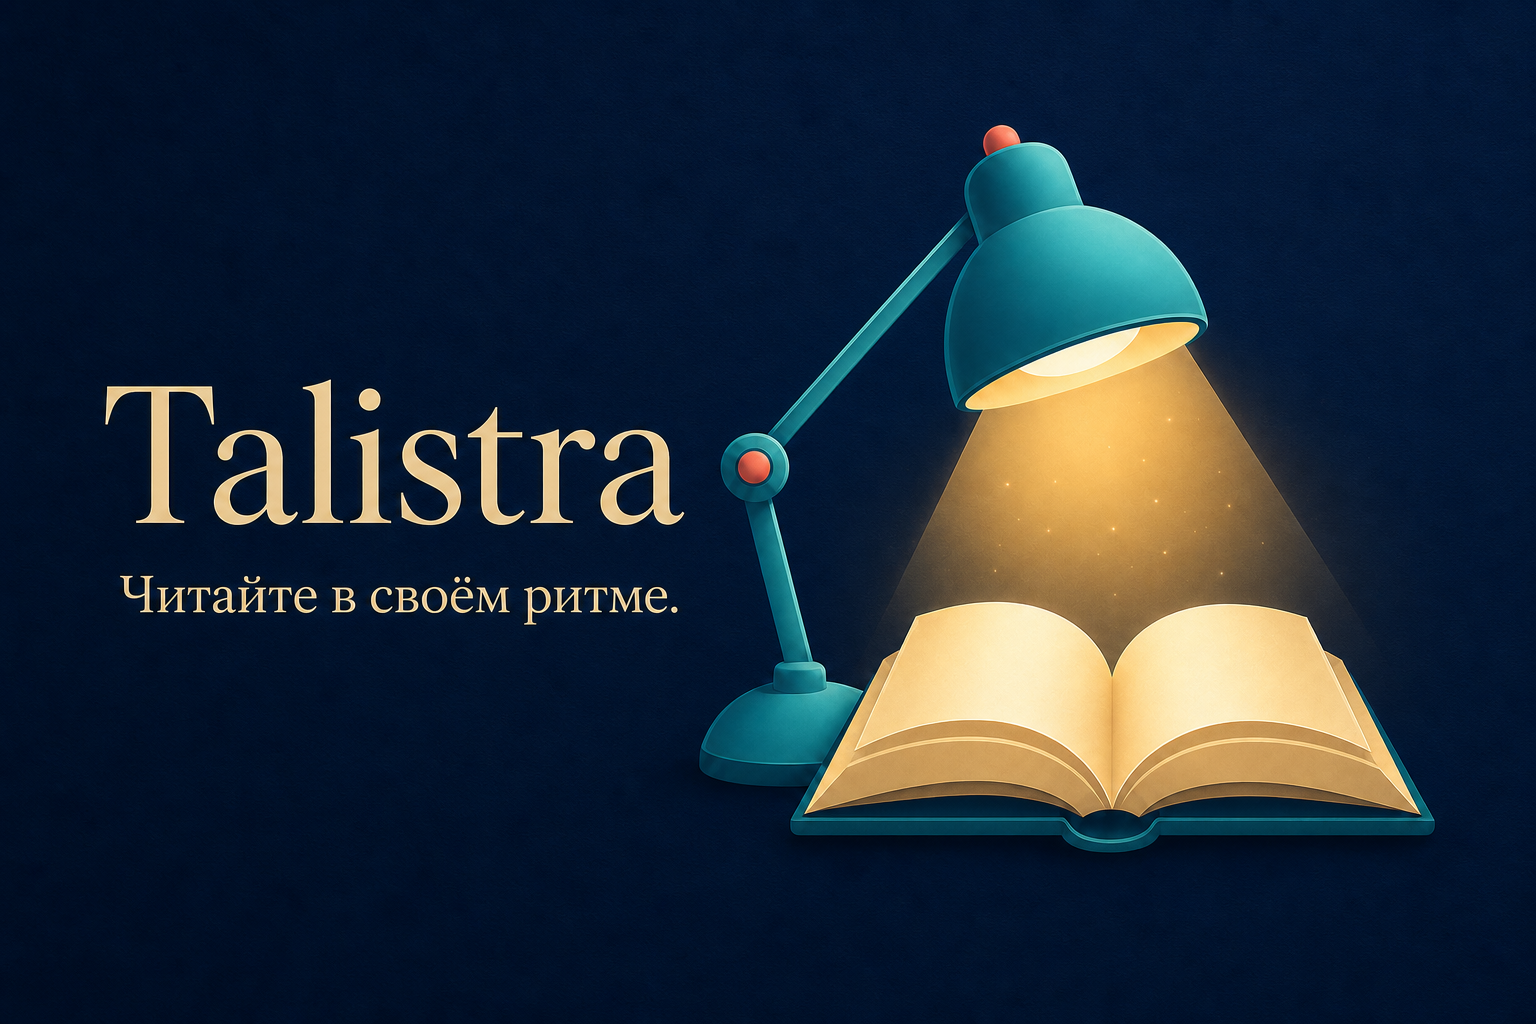
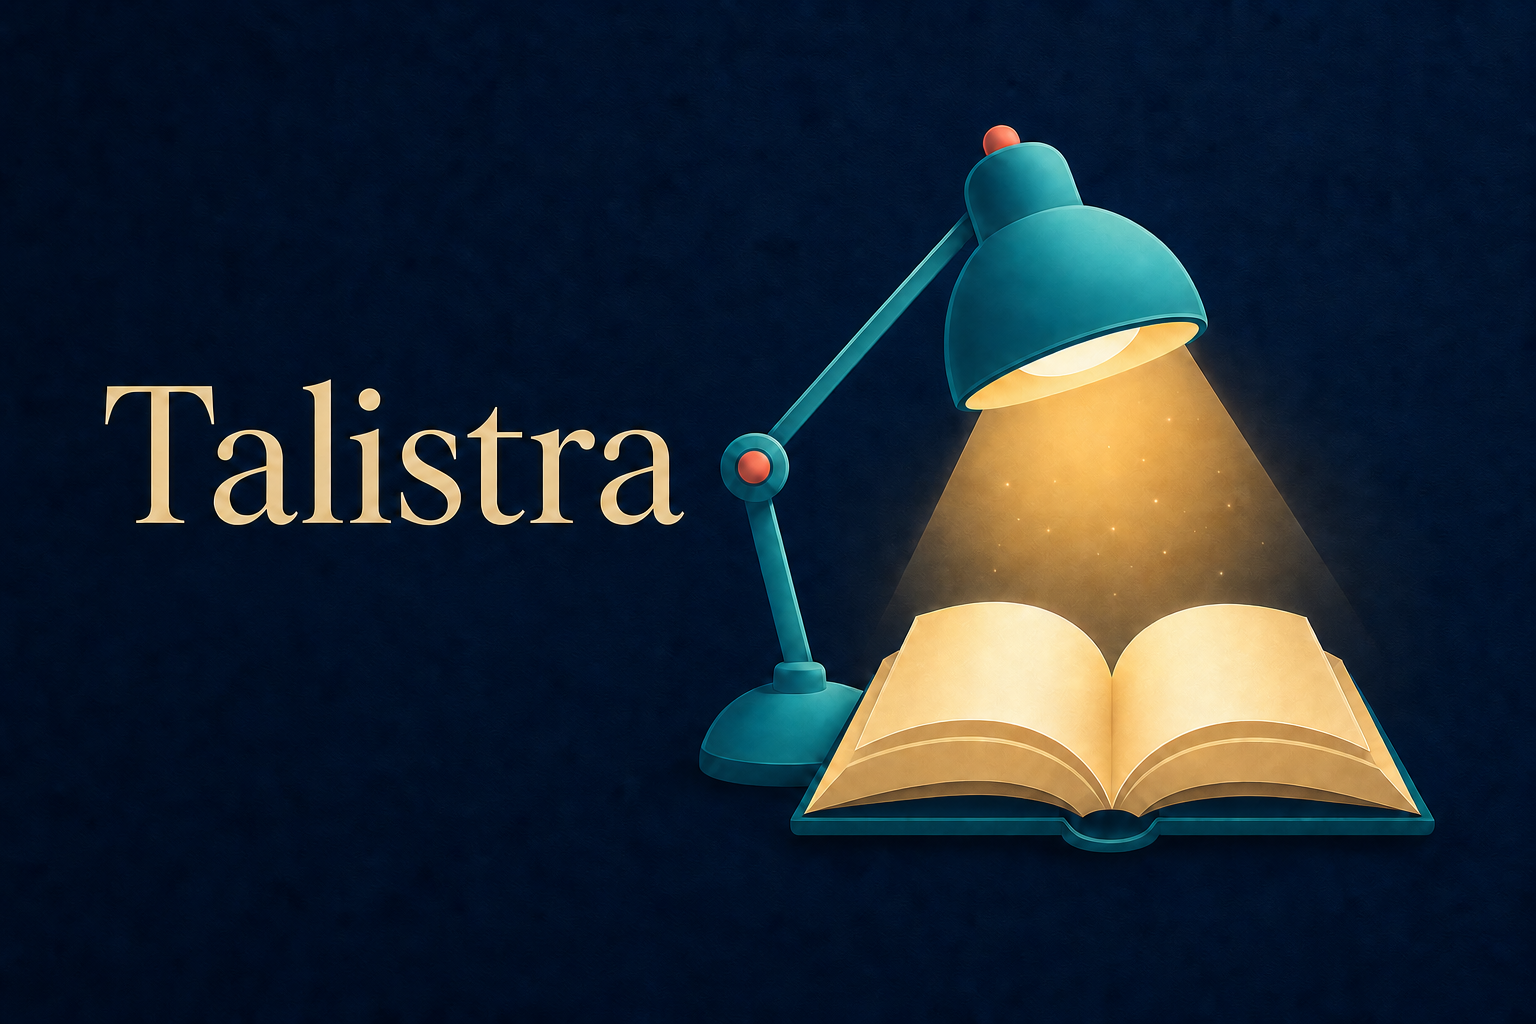
Refine website copy and HTTP handling

Changed region(s): [[0.0625, 0.5625, 0.4375, 0.625]]

diff --git a/website/public/index.html b/website/public/index.html
@@ -4,9 +4,9 @@
     <meta charset="utf-8">
     <meta name="viewport" content="width=device-width, initial-scale=1">
     <meta name="theme-color" content="#073b3a">
-    <meta name="description" content="Talistra — спокойная читалка PDF, DjVu, EPUB, FB2 и документов с офлайн-переводом.">
-    <meta property="og:title" content="Talistra — читайте в своём ритме">
-    <meta property="og:description" content="PDF и DjVu без рывков, адаптивный текст, офлайн-перевод и бережная статистика чтения.">
+    <meta name="description" content="Talistra — читалка PDF, DjVu, EPUB, FB2 и документов с офлайн-переводом.">
+    <meta property="og:title" content="Talistra — читалка PDF, DjVu и книг">
+    <meta property="og:description" content="Плавная прокрутка, адаптивный текст и офлайн-перевод документов.">
     <meta property="og:type" content="website">
     <meta property="og:url" content="https://talistra.ru/">
     <meta property="og:image" content="https://talistra.ru/og.png">
@@ -32,8 +32,8 @@
     <main id="top">
       <section class="hero">
         <div class="hero-copy">
-          <p class="eyebrow"><span></span> Читалка, в которой ничто не отвлекает</p>
-          <h1>Каждая книга —<br><em>в своём свете.</em></h1>
+          <p class="eyebrow"><span></span> Читалка документов для Android</p>
+          <h1>PDF, DjVu и книги —<br><em>удобно на любом экране.</em></h1>
           <p class="hero-lead">
             Talistra открывает PDF, DjVu, EPUB и другие документы, превращает
             их в удобный текст и переводит без интернета.
@@ -70,9 +70,9 @@
 
       <section class="section features" id="features">
         <div class="section-heading">
-          <p class="eyebrow"><span></span> Продумано для долгого чтения</p>
-          <h2>Не боритесь с документом.<br>Просто читайте.</h2>
-          <p>Одинаково знакомое управление для PDF и DjVu, спокойная типографика и всё важное под рукой.</p>
+          <p class="eyebrow"><span></span> Чтение без лишних действий</p>
+          <h2>PDF и DjVu работают<br>одинаково удобно.</h2>
+          <p>Плавная прокрутка, привычный масштаб, адаптивный текст и быстрый переход к нужной странице.</p>
         </div>
 
         <div class="feature-grid">
@@ -93,13 +93,13 @@
             <p>Адаптивный режим собирает страницу в читабельный текст. Выберите шрифт, насыщенность, контраст и один из шести оттенков бумаги.</p>
             <div class="type-sample">
               <span>Aa</span>
-              <p>В хорошей книге<br>всегда достаточно света.</p>
+              <p>Размер, цвет и фон<br>настраиваются для чтения.</p>
             </div>
           </article>
 
           <article class="feature feature-dark">
             <p class="feature-number">03</p>
-            <h3>Перевод остаётся с вами</h3>
+            <h3>Офлайн-перевод</h3>
             <p>Скачайте языковую модель один раз — перевод слов и предложений продолжит работать без сети.</p>
             <div class="translation-card">
               <small>read</small>
@@ -110,7 +110,7 @@
 
           <article class="feature">
             <p class="feature-number">04</p>
-            <h3>Статистика без самообмана</h3>
+            <h3>Статистика чтения по дням</h3>
             <p>Время и страницы считаются по дням. Быстрая прокрутка не выдаётся за чтение.</p>
             <img class="stat-preview" src="/assets/statistics.png" alt="Статистика чтения по дням в Talistra">
           </article>
@@ -119,8 +119,8 @@
 
       <section class="quiet-section">
         <div>
-          <p class="eyebrow light"><span></span> Личная библиотека</p>
-          <h2>Ваши книги не становятся<br>чьими-то данными.</h2>
+          <p class="eyebrow light"><span></span> Приватность</p>
+          <h2>Документы остаются<br>на вашем устройстве.</h2>
         </div>
         <p>
           Talistra не требует аккаунта. Документы, история чтения и настройки
@@ -132,8 +132,8 @@
 
       <section class="section feedback-section" id="feedback">
         <div class="feedback-copy">
-          <p class="eyebrow"><span></span> Давайте сделаем Talistra лучше</p>
-          <h2>Что добавить<br>в следующую главу?</h2>
+          <p class="eyebrow"><span></span> Обратная связь</p>
+          <h2>Есть идея или<br>нашли проблему?</h2>
           <p>
             Расскажите об идее, неудобстве или формате, которого вам не хватает.
             Каждое сообщение попадает напрямую команде Talistra.
@@ -180,7 +180,7 @@
         <img src="/assets/logo.png" alt="" width="36" height="36">
         <span>Talistra</span>
       </a>
-      <p>Читайте в своём ритме.</p>
+      <p>PDF, DjVu и книги.</p>
       <div>
         <a href="/privacy/">Конфиденциальность</a>
         <a href="#feedback">Обратная связь</a>

diff --git a/website/server.py b/website/server.py
@@ -98,7 +98,7 @@ class Handler(BaseHTTPRequestHandler):
         self.end_headers()
         self.wfile.write(body)
 
-    def send_file(self, path):
+    def send_file(self, path, include_body=True):
         try:
             data = path.read_bytes()
         except FileNotFoundError:
@@ -110,7 +110,8 @@ class Handler(BaseHTTPRequestHandler):
         self.send_header("Content-Length", str(len(data)))
         self.send_header("Cache-Control", "public, max-age=86400" if "/assets/" in str(path) else "no-cache")
         self.end_headers()
-        self.wfile.write(data)
+        if include_body:
+            self.wfile.write(data)
 
     def origin_allowed(self):
         origin = self.headers.get("Origin")
@@ -155,6 +156,29 @@ class Handler(BaseHTTPRequestHandler):
             self.send_error(403)
             return
         self.send_file(target)
+
+    def do_HEAD(self):
+        path = unquote(urlparse(self.path).path)
+        if path == "/api/health":
+            self.send_response(200)
+            self.send_header("Content-Type", "application/json; charset=utf-8")
+            self.send_header("Content-Length", "16")
+            self.end_headers()
+            return
+        if path == ADMIN_PATH:
+            self.send_file(ROOT / "admin.html", include_body=False)
+            return
+        if path == ADMIN_PATH + "admin.js":
+            self.send_file(ROOT / "admin.js", include_body=False)
+            return
+        relative = path.lstrip("/") or "index.html"
+        if relative.endswith("/"):
+            relative += "index.html"
+        target = (PUBLIC / relative).resolve()
+        if PUBLIC not in target.parents and target != PUBLIC:
+            self.send_error(403)
+            return
+        self.send_file(target, include_body=False)
 
     def do_POST(self):
         path = unquote(urlparse(self.path).path)
